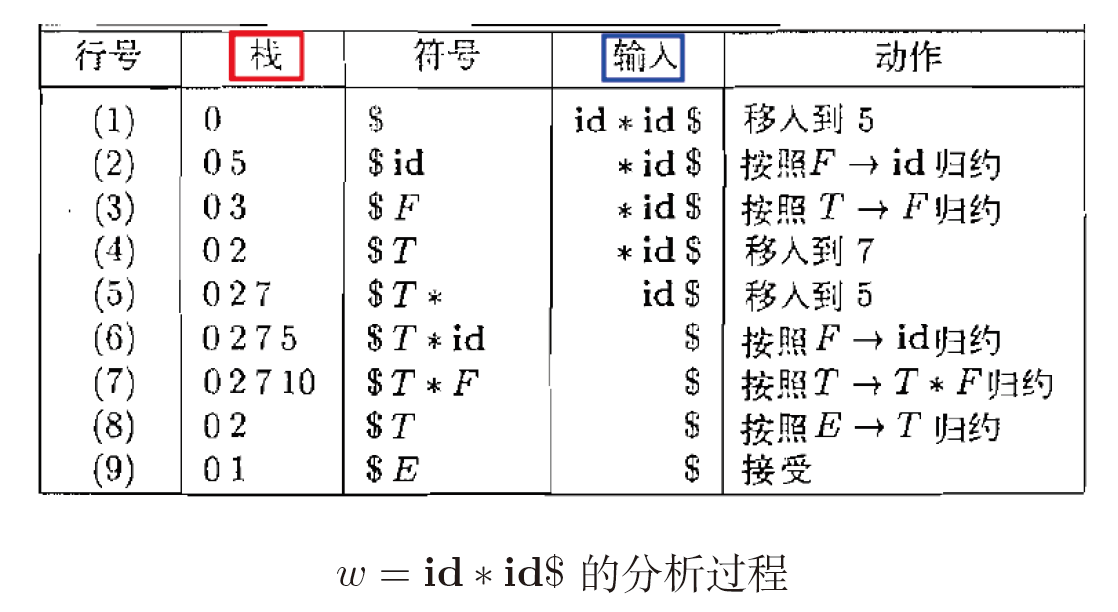
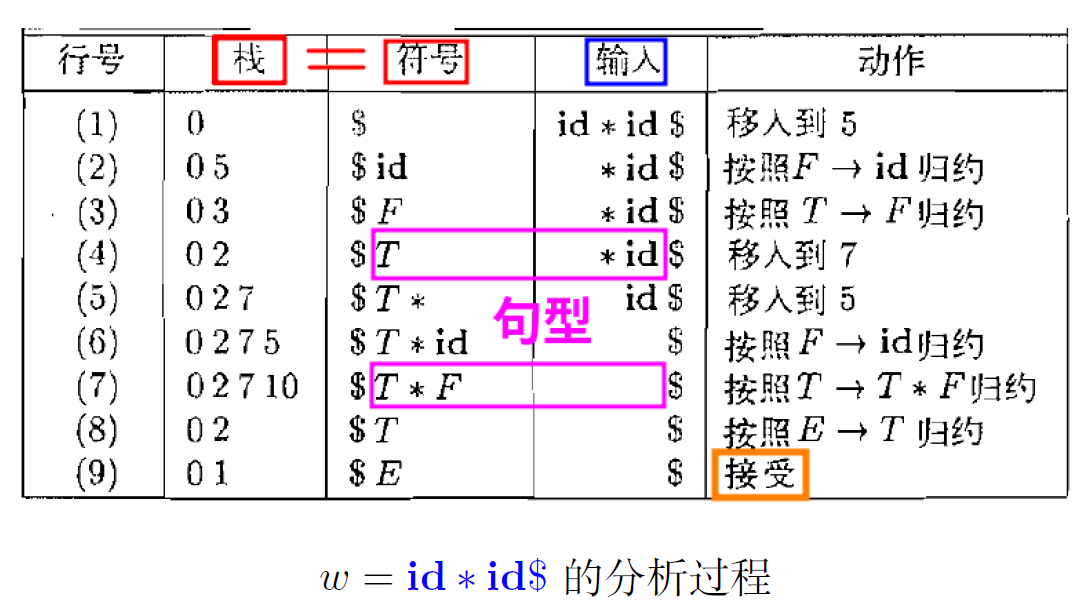
update cp-pre

Changed region(s): [[0.0, 0.0299, 1.0, 0.8372], [0.274, 0.897, 0.7306, 1.0]]

diff --git a/Lecture3-Parser.md b/Lecture3-Parser.md
@@ -684,7 +684,9 @@ $$
 \end{array}
 $$
 
-> 对于每一个生成式分别执行如上两步
+> 对于每一个生成式只要满足上面一条规则即可(或关系)
+
+![](img/lec3/53.png)
 
 ## 4.10. Definition (LL(1) 文法)
 > 如果文法G的**预测分析表**是**无冲突**的, 则G是LL(1)文法。
@@ -908,7 +910,18 @@ $$
 4. **叶节点**是词法单元流w$
 5. 仅包含终结符号与特殊的**文件结束符$**
 
-## 5.2. 推导与归约
+## 5.2. 自顶向下的“推导”与自底向上的“归约”
+$$
+E \xRightarrow[rm]{} T \xRightarrow[rm]{} T * F \xRightarrow[rm]{} T * id \xRightarrow[rm]{} F * id \xRightarrow[rm]{} id * id
+$$
+
+![](img/lec3/46.png)
+
+$$
+E \Leftarrow T \Leftarrow T * F \Leftarrow T * id \Leftarrow F * id \Leftarrow id * id
+$$
+
+## 5.3. 推导与归约
 1. 从**产生式**的角度看，是推导：$A \rightarrow \alpha$
 2. 从**输入**的角度看，是规约：$A \leftarrow \alpha$
 
@@ -921,7 +934,7 @@ $$
 
 3. 自底向上语法分析器为输入构造**反向推导**
 
-## 5.3. LR(∗) 语法分析器
+## 5.4. LR(∗) 语法分析器
 1. L:**从左向右**(left-to-right) 扫描输入
 2. R:构建**反向**(reverse)**最右**(leftmost)推导
 3. 在最右推导中, 最左叶节点最后才被处理
@@ -939,56 +952,62 @@ $$
 \end{array}
 $$
 
-## 5.4. 栈上操作：移入与规约
-![](img/lec3/37.png)
+## 5.5. 栈上操作：移入与规约
 
-1. 部分构建的语法分析树的**上边缘**与**剩余的输入**构成当前句型
+1. 在任意时刻, 语法分析树的**上边缘**与**剩余的输入**构成当前句型
 
 ![](img/lec3/38.png)
 
+$$
+E \Leftarrow T \Leftarrow T * F \Leftarrow T * id \Leftarrow F * id \Leftarrow id * id
+$$
+
 2. LR语法分析器使用**栈**存储语法分析树的**上边缘**
 
-## 5.5. Definition(句柄(Handle))
-1. 在输入串的(唯一)反向最右推导中, 如果下一步是逆用产生式$A \rightarrow \alpha$将$\alpha$规约为$A$, 则称$\alpha$是当前句型的句柄。
+## 5.6. 栈上操作
+![](img/lec3/37.png)
 
-![](img/lec3/39.png)
+1. 两大操作: **移入输入符号**与**按产生式归约**
+2. 直到栈中仅剩开始符号S, 且输入已结束, 则成功停止
 
-2. LR语法分析器的关键就是高效**寻找每个归约步骤所使用的句柄**。
-
-## 5.6. 句柄可能在哪里？
-1. Theorem：存在一种LR语法分析方法，保证句柄总是出现在栈顶。
-
-![](img/lec3/40.png)
+## 5.7. 基于栈的LR语法分析器
+1. Q1:何时归约? (何时移入?)
+2. Q2:按哪条产生式进行归约?
 
 $$
 \begin{array}{l}
-   S \xRightarrow[rm]{*} \alpha Az  \xRightarrow[rm]{*} \alpha\beta Byz  \xRightarrow[rm]{*} \alpha\beta\gamma yz \\
-   S \xRightarrow[rm]{*} \alpha BxAz  \xRightarrow[rm]{*} \alpha Bxyz  \xRightarrow[rm]{*} \alpha\gamma xy \\
+   E \rightarrow E + T \\
+   E \rightarrow T \\
+   T \rightarrow T * F \\
+   T \rightarrow F \\
+   F \rightarrow (E) \\
+   F \rightarrow id \\
+   w = id * id \\
 \end{array}
 $$
-
-2. Theorem:存在一种LR 语法分析方法, 保证句柄总是出现在栈顶。
-3. LR语法分析器在进行一次归约后, 接着移入零个或多个符号, 继续寻找下一个句柄
-4. 为什么第一个F 被直接归约为T,而第二个F 则与T ∗ F 一起被归约为T?
-
 ![](img/lec3/37.png)
 
-1. **栈**刻画了语法分析器目前所知的所有信息,
-2. **隐含**了语法分析器的当前状态
+1. 为什么第二个F 以T ∗ F 整体被归约为T?
+2. 这与**栈**的当前状态“T ∗ F” 相关
 
+### 5.7.1. LR(0) 分析表指导LR(0) 语法分析器
 ![](img/lec3/41.png)
 
-1. LR(0) 分析表指导LR(0) 语法分析器
-2. 在当前状态(编号)下, 面对当前文法符号时, 该采取什么动作
+1. 在当前状态(编号)下, 面对当前文法符号时, 该采取什么动作
+2. action 表指明动作, goto 表仅用于归约时的状态转换
 
 ![](img/lec3/41.png)
 ![](img/lec3/42.png)
 
-## 5.7. Definition (LR(0)文法)
+### 5.7.2. Definition (LR(0)文法)
 1. 如果文法G的LR(0)分析表是无冲突的, 则G是LR(0)文法。
 2. **无冲突**: ACTION表中每个单元格最多只有一种动作
 
-## 5.8. 再次板书演示“栈” 上操作: 移入与规约
+![](img/lec3/41.png)
+
+3. 两类可能的冲突: “移入/归约” 冲突、“归约/归约” 冲突
+
+### 5.7.3. 再次板书演示“栈” 上操作: 移入与规约
 
 $$
 \begin{array}{l}
@@ -1005,21 +1024,67 @@ $$
 ![](img/lec3/41.png)
 
 - $w = (x,x,x)$
-- **栈**中**明确**包含了语法分析器的状态
+- 栈中存储语法分析器的状态(编号), “编码” 了语法分析树的上边缘
 
 ![](img/lec3/43.png)
 ![](img/lec3/44.png)
 
-## 5.9. 如何构造LR(0)分析表?
+### 5.7.4. 如何构造LR(0)分析表?
 ![](img/lec3/41.png)
 
 1. LR(0)分析表指导LR(0)语法分析器
 2. 在**当前状态(编号)**下, 面对**当前文法符号**时,该采取什么动作
 
-## 5.10. LR(0) 句柄寻找自动机
+### 5.7.5. 状态是什么? 如何跟踪状态?
+![](img/lec3/41.png)
+
+1. 状态是语法分析树的上边缘, 存储在栈中
+2. 可以用自动机跟踪状态变化(自动机中的路径 $\Leftrightarrow$栈中符号/状态编号)
+
+### 5.7.6. 何时归约? 使用哪条产生式进行归约?
+![](img/lec3/41.png)
+
+1. 必要条件: 当前状态中, 已观察到某个产生式的完整右部
+2. 对于LR(0) 文法, 这是当前唯一的选择
+
+### 5.7.7. Definition(句柄(Handle))
+1. 在输入串的(唯一)反向最右推导中, 如果下一步是逆用产生式$A \rightarrow \alpha$将$\alpha$规约为$A$, 则称$\alpha$是当前句型的句柄。
+
+![](img/lec3/39.png)
+
+2. LR语法分析器的关键就是高效**寻找每个归约步骤所使用的句柄**。
+
+## 5.8. 句柄可能在哪里？
+1. Theorem：存在一种LR语法分析方法，保证句柄总是出现在栈顶。
+
+![](img/lec3/40.png)
+
+$$
+\begin{array}{l}
+   S \xRightarrow[rm]{*} \alpha Az  \xRightarrow[rm]{*} \alpha\beta Byz  \xRightarrow[rm]{*} \alpha\beta\gamma yz \\
+   S \xRightarrow[rm]{*} \alpha BxAz  \xRightarrow[rm]{*} \alpha Bxyz  \xRightarrow[rm]{*} \alpha\gamma xy \\
+\end{array}
+$$
+
+2. 可以用自动机跟踪状态变化(自动机中的路径 $\Leftrightarrow$ 栈中符号/状态编号)
+
+2. Theorem:存在一种LR 语法分析方法, 保证句柄总是出现在栈顶。
+3. 在自动机的当前状态识别可能的句柄(观察到的完整右部)(自动机的当前状态 $\Leftrightarrow$ 栈顶)
+4. LR(0) 句柄识别有穷状态自动机(Handle-Finding Automaton)
+
 ![](img/lec3/45.png)
 
-## 5.11. Definition (LR(0) 项(Item))
+## 5.9. LR(0) 句柄识别自动机
+1. 为给定的文法G构造相应的句柄识别自动机
+2. 该自动机用于识别该文法G 所允许的所有可能的句柄
+
+![](img/lec3/45.png)
+
+3. 状态是什么? 状态之间如何转移?
+
+### 5.9.1. 状态刻画了“当前观察到的针对所有产生式的右部的前缀”
+
+#### 5.9.1.1. Definition (LR(0) 项(Item))
 1. 一个文法G的一个LR(0)项是G的一个产生式再加上一个位于体部某处的点。
 
 $$
@@ -1034,12 +1099,66 @@ $$
 
 2. 产生式$A\epsilon$只有一个项$A \rightarrow ·$
 3. 项指明了语法分析器已经看到了一个产生式的哪些部分
+4. 点指示了栈顶, 左边(与路径) 是栈中内容, 右边是期望看到的文法符号
 
-## 5.12. Definition (项集)
+### 5.9.2. 状态刻画了“当前观察到的针对所有产生式的右部的前缀”
 
-## 5.13. Definition (项集族)
+#### 5.9.2.1. Definition (项集)
+1. 项集就是若干项构成的集合。
+2. 因此, 句柄识别自动机的一个状态可以表示为一个项集
 
-## 5.14. Definition (增广文法(Augmented Grammar))
+#### 5.9.2.2. Definition (项集族)
+1. 项集族就是若干项集构成的集合。
+2. 因此, 句柄识别自动机的状态集可以表示为一个项集族
+
+#### 5.9.2.3. Definition (增广文法(Augmented Grammar))
 1. 文法G 的增广文法是在G 中加入产生式$S' \rightarrow S$得到的文法。
+2. 目的: 告诉语法分析器何时停止分析并接受输入符号串
+3. 当语法分析器面对$且要使用S′ → S 进行归约时, 输入符号串被接受
+4. 注: 此“接受” (输入串) 非彼“接受” (句柄识别自动机)
 
 ![](img/lec3/45.png)
+
+### 5.9.3. 几个问题
+1. 初始状态是什么?
+2. 状态之间如何转移?
+
+1. 点指示了栈顶, 左边(与路径) 是栈中内容, 右边是期望看到的文法符号
+
+![](img/lec3/47.png)
+
+![](img/lec3/48.png)
+
+$$
+\begin{array}{l}
+   GOTO(I, X) = CLOSURE(\{[A \rightarrow \alpha X ·\beta ] | [A \rightarrow \above · X \beta] \in I \}) \\
+   X \in N \cup T \cup \{\$\} \\
+\end{array}
+$$
+
+![](img/lec3/49.png)
+
+### 5.9.4. 将LR(0) 自动机表示成LR(0) 分析表
+![](img/lec3/50.png)
+
+1. goto 函数被拆分成action 表(针对终结符) 与goto 表(针对非终结符)
+
+![](img/lec3/51.png)
+
+2. 归约动作:$A \rightarrow \alpha · \in s$，则有ACTION[s, a] = r_
+3. a: 除了已经填入action[s, _] = s_ 的其余所有终结符
+
+### 5.9.5. LR(0) 分析表每一行(状态) 所选用的归约产生式是相同的
+![](img/lec3/52.png)
+
+- 归约时不需要向前看, 这就是“0” 的含义
+
+## 5.10. LR(0) 语法分析器
+1. L:从左向右(Left-to-right) 扫描输入
+2. R:构建反向(Reverse) 最右推导
+3. 0:归约时无需向前看
+4. LR(0) 自动机与栈之间的互动关系
+5. 向前走 $\Leftrightarrow$ 移入
+6. 回溯 $\Leftrightarrow$ 归约
+7. 自动机才是本质, 栈是实现方式(用栈记住“来时的路”, 以便回溯)
+8. Q:为什么是个有穷状态自动机?
